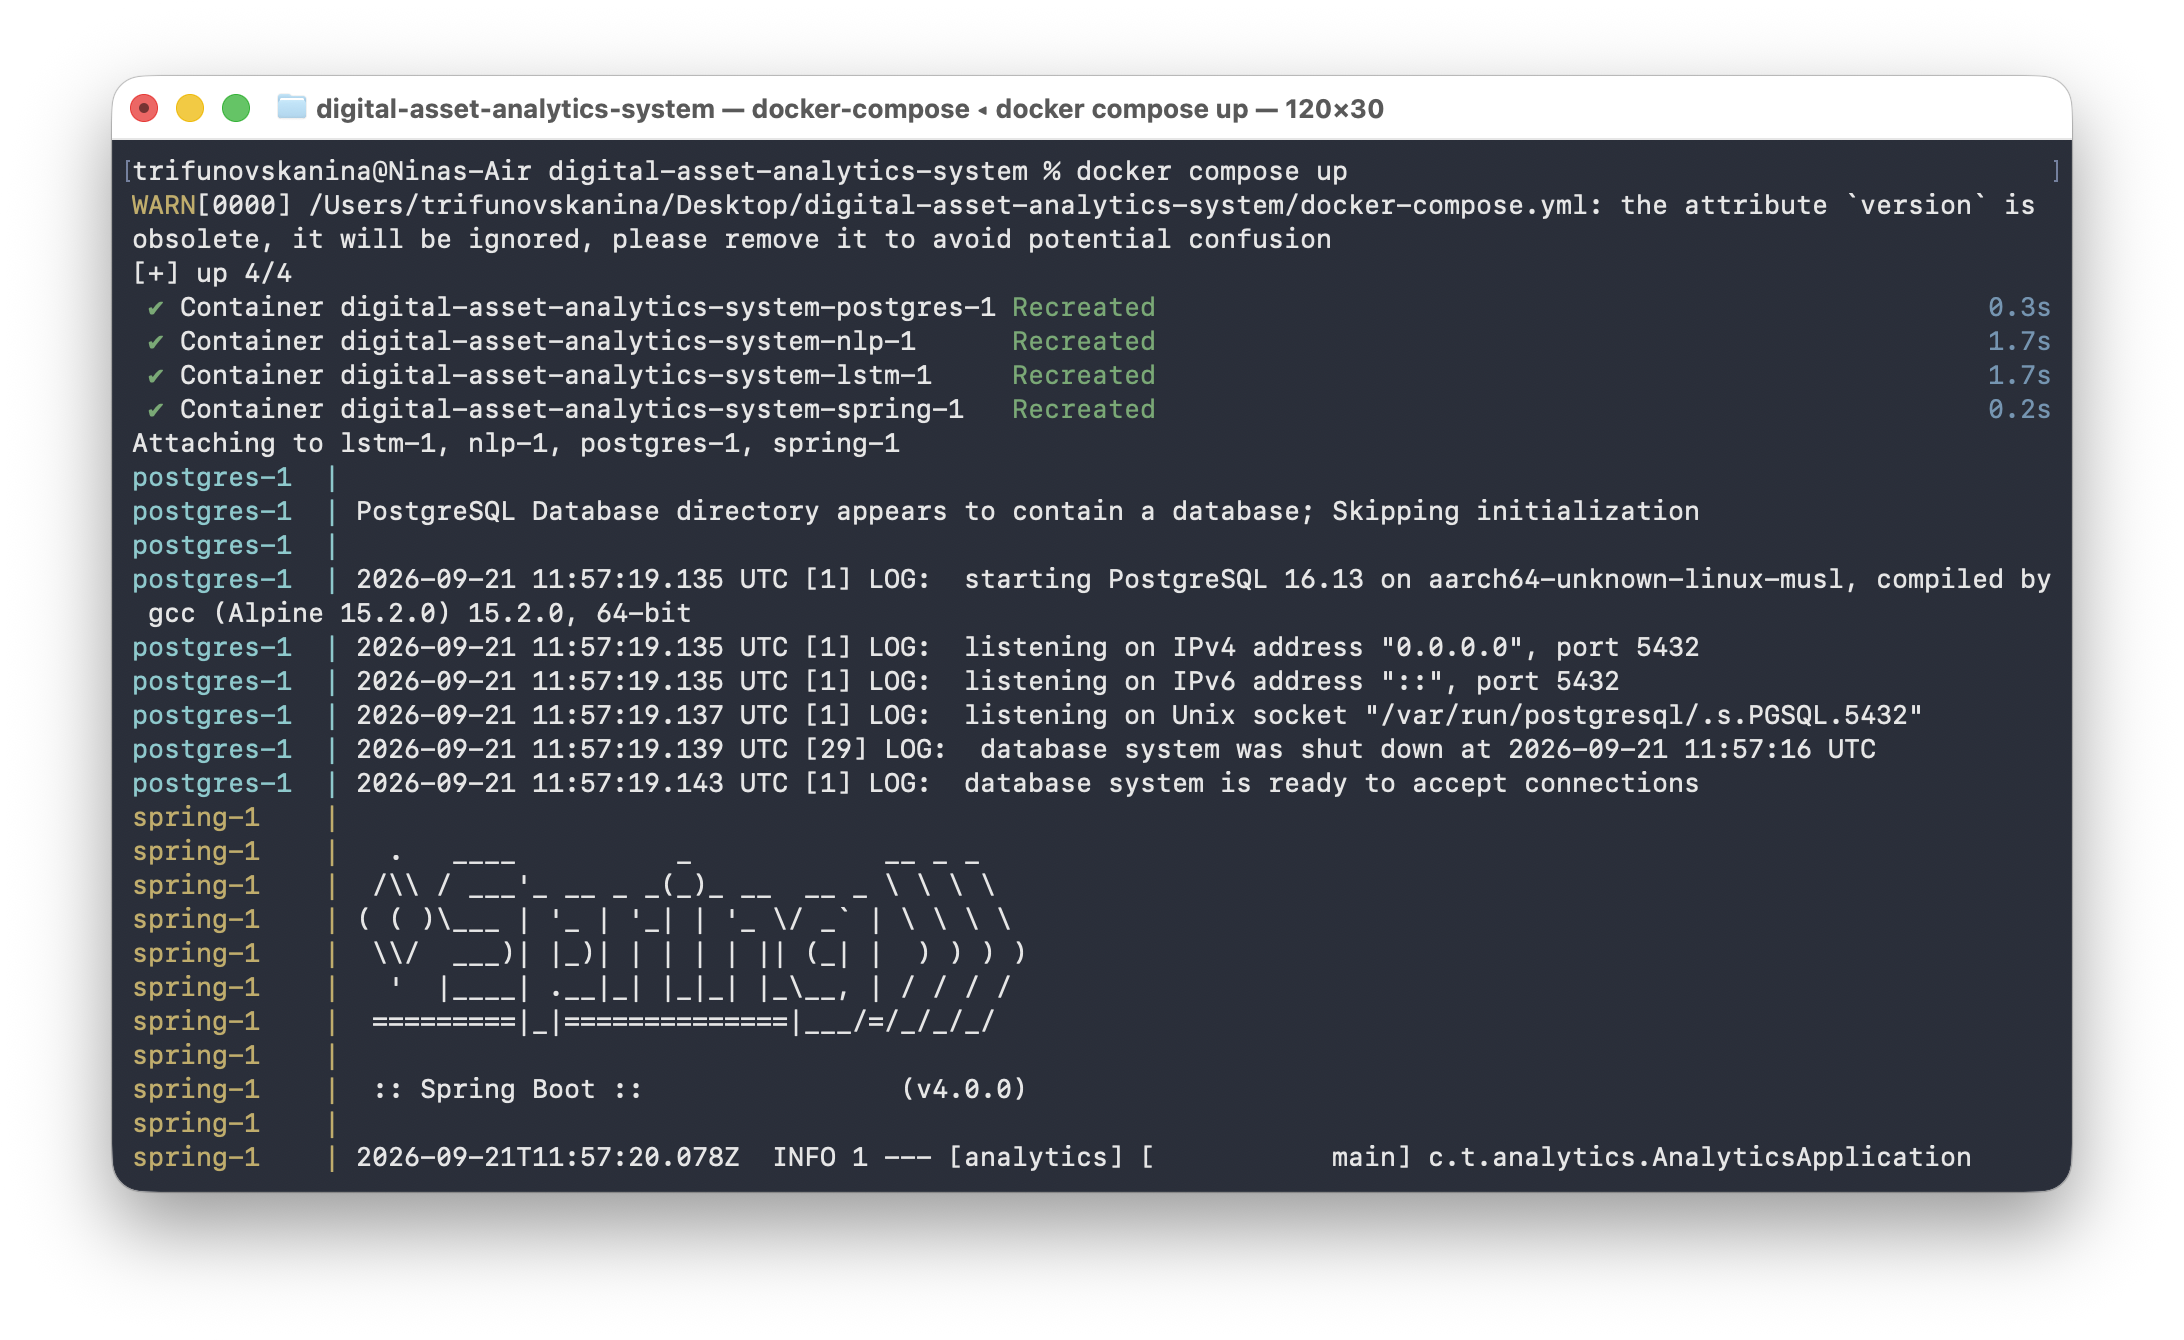
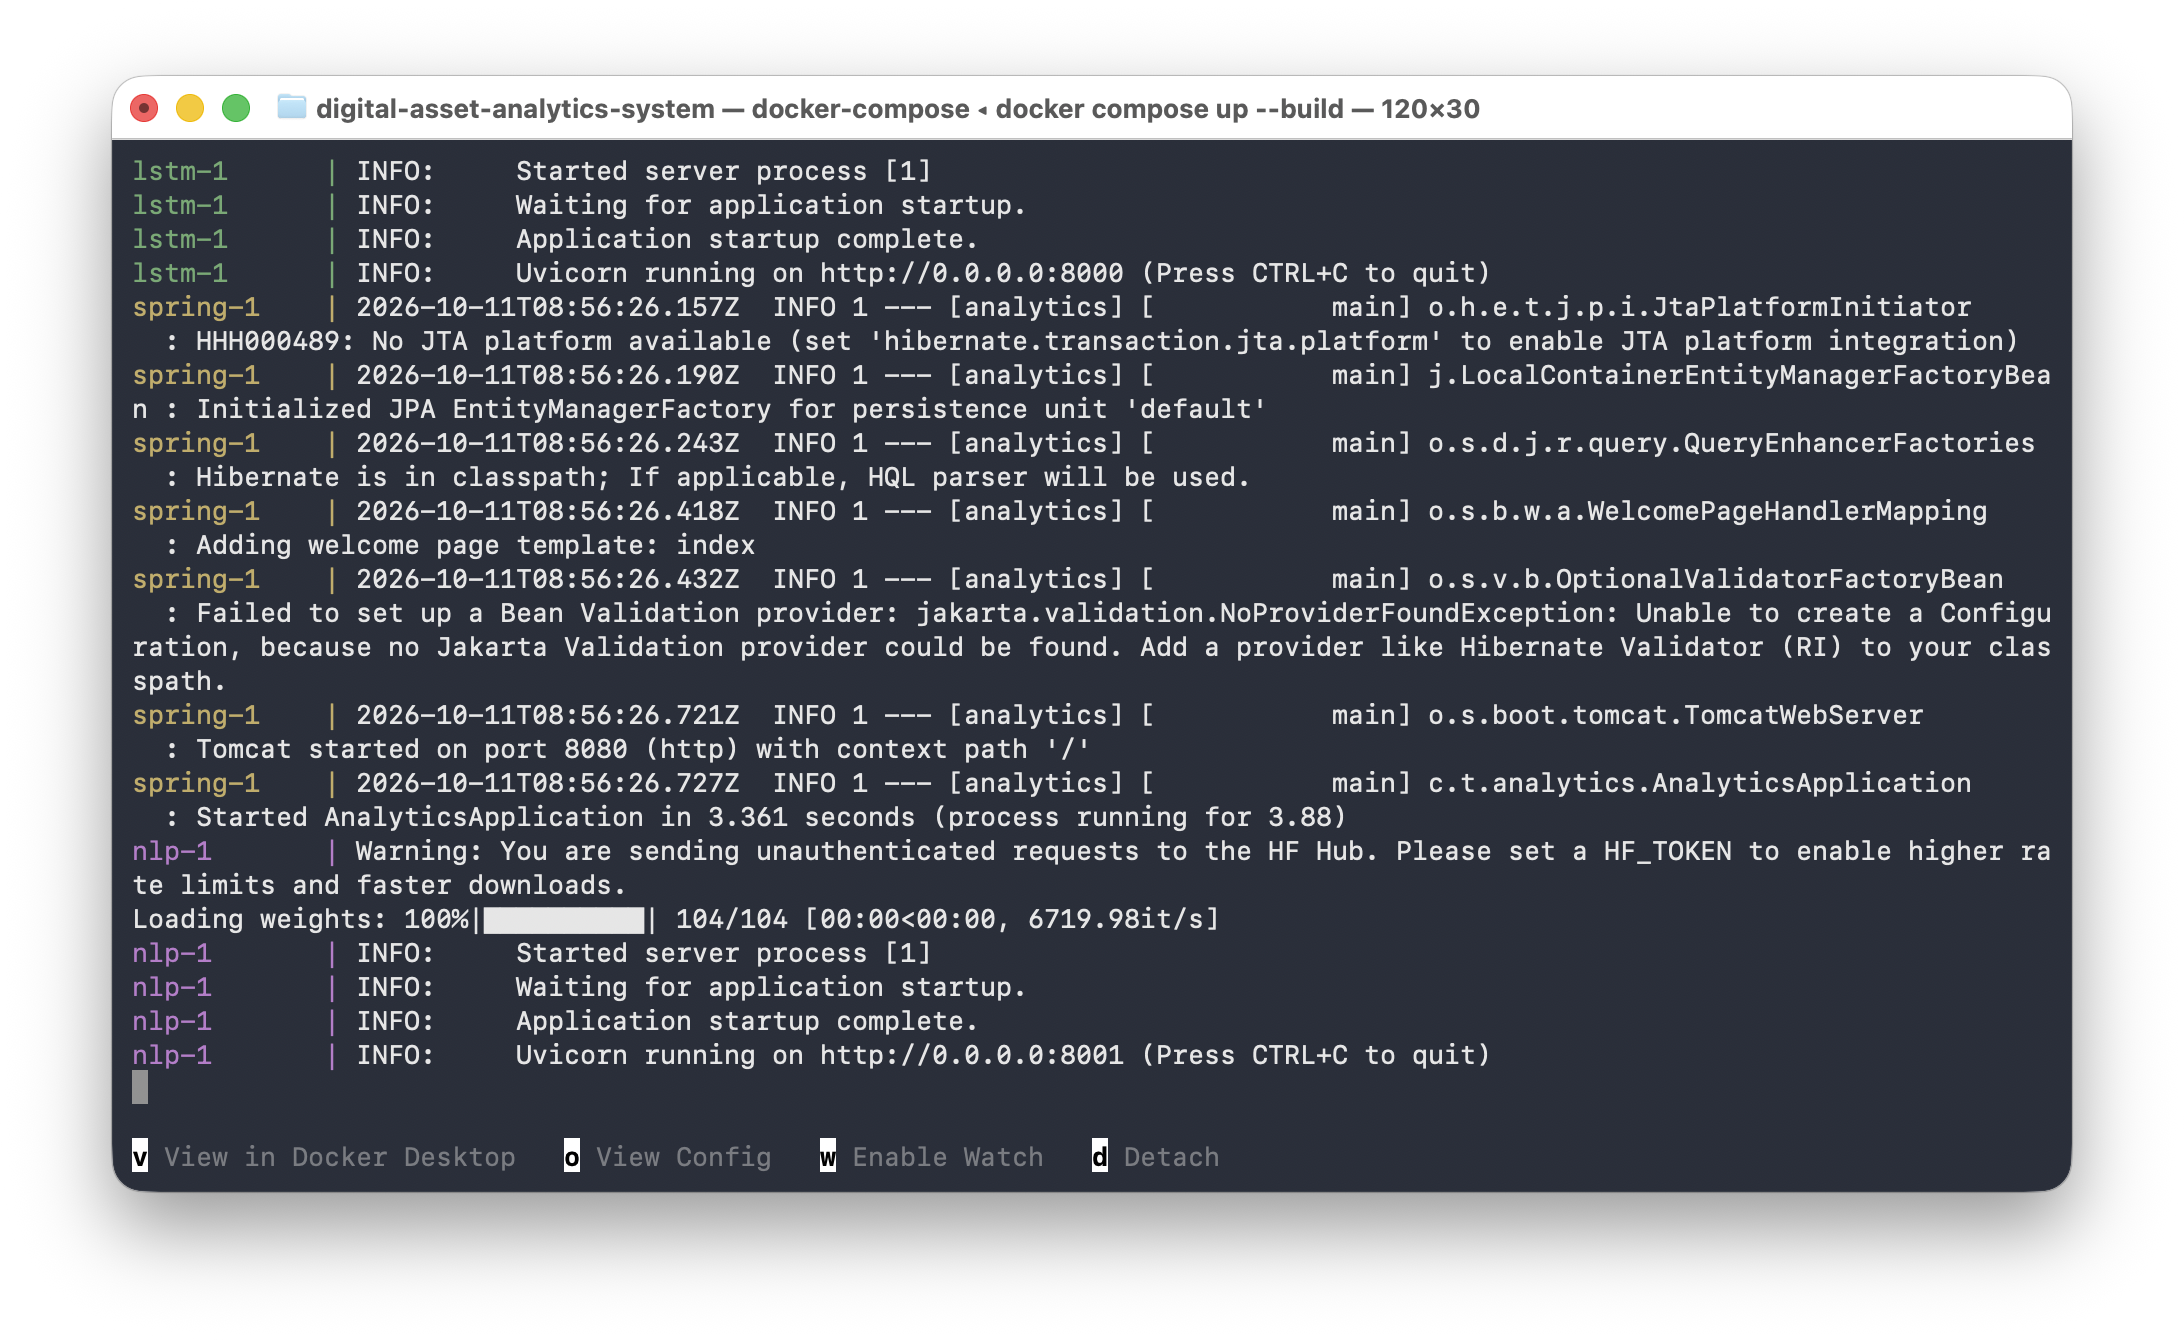
readme fix

Changed region(s): [[0.0623, 0.1224, 0.9341, 0.8873], [0.6227, 0.8567, 0.9029, 0.8873], [0.5916, 0.0612, 0.685, 0.0918]]

diff --git a/README.md b/README.md
@@ -138,9 +138,10 @@ Each service exposes interactive documentation:
 
 ---
 
-## Docker Compose Startup
+## Docker Deployment
 
-Docker Compose launches the application stack, recreating the containers. PostgreSQL initializes and becomes ready to accept connections, followed by the Spring Boot application starting successfully. All services communicate internally through Docker's network.
+The system is containerized using Docker Compose, integrating the Spring Boot application,
+two FastAPI microservices, and a PostgreSQL database.
 
 <img src="screenshots/1.png" width="600"/>
 
@@ -148,9 +149,22 @@ Docker Compose launches the application stack, recreating the containers. Postgr
 
 ## Neural Network Training
 
-The LSTM microservice trains a neural network over 200 epochs. The training and validation loss are **decreasing**, which indicates that the model is learning the historical patterns.
+The LSTM neural network is trained over 200 epochs using historical closing prices. 
+Training and validation losses are **decreasing**, indicating that the model is learning the historical patterns.
 
 <img src="screenshots/2.png" width="600"/>
+
+---
+
+## User Interface: LSTM Price Forecast
+
+An interactive interface for price forecasting using a
+Long Short-Term Memory (LSTM) neural network. The interface provides
+price visualizations, configurable forecasting parameters,
+and model performance metrics such as RMSE, MAPE, and R² to
+evaluate prediction accuracy.
+
+<img src="screenshots/3.png" width="600"/>
 
 ---
 
